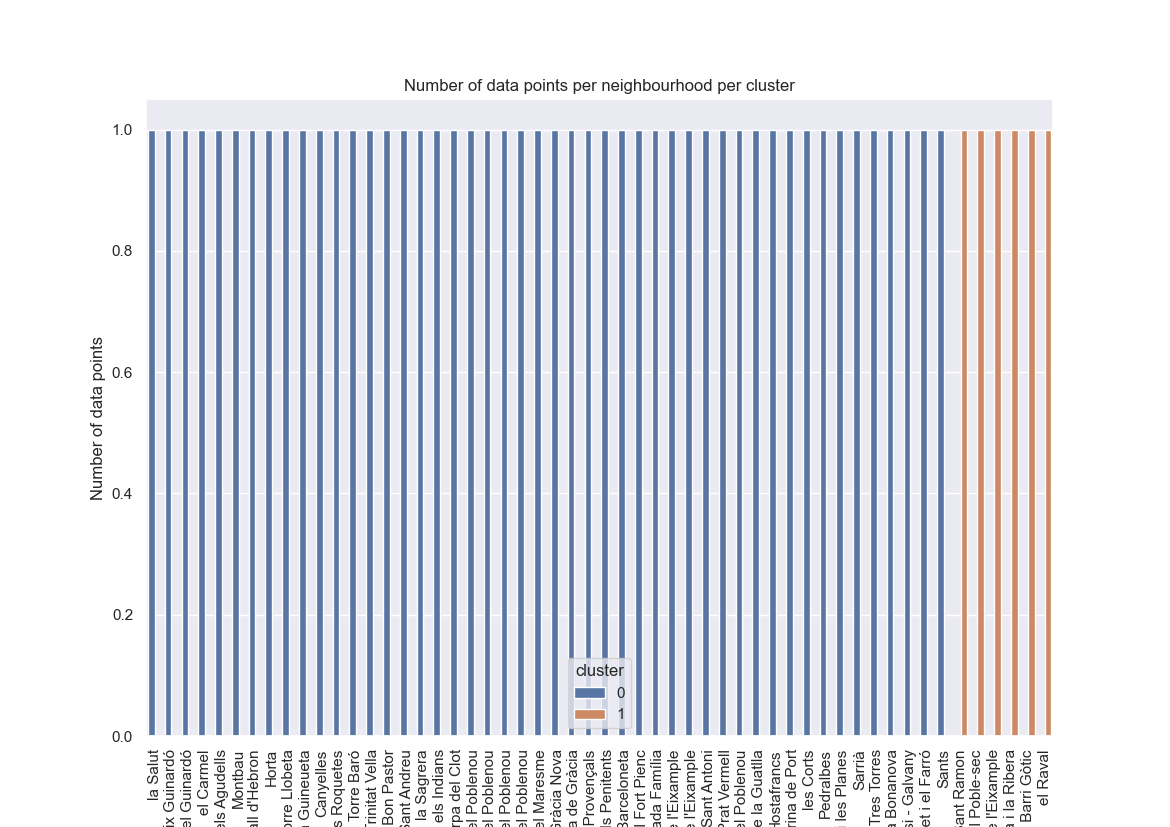
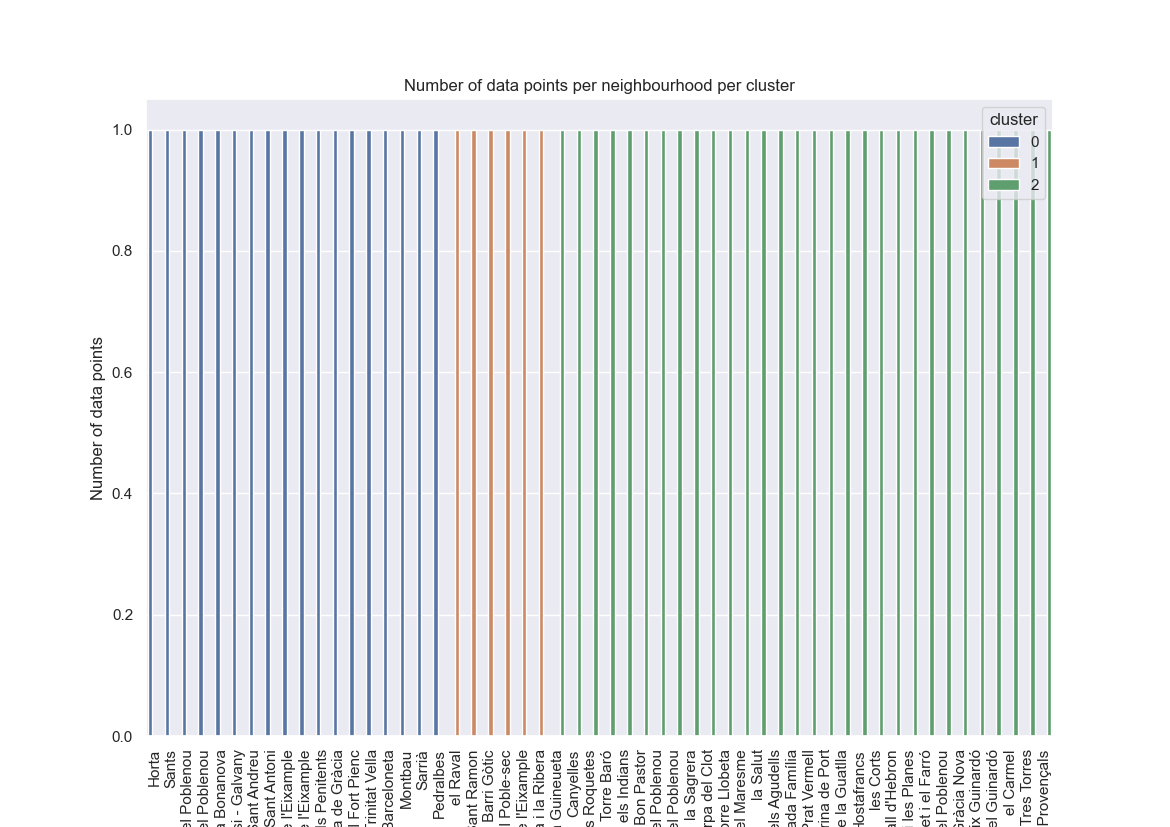
now it'S ready

Changed region(s): [[0.1231, 0.1209, 0.9231, 1.0]]

diff --git a/src/Clustering/library_studyroom_museum_spaces.py b/src/Clustering/library_studyroom_museum_spaces.py
@@ -1,11 +1,14 @@
 from clustering import optimal_clusters_number, cluster_and_plot
 import pandas as pd
 
+
+## Each step should be done separately, so comment the other functions out when running one of them.
+
 # Load your data into a pandas DataFrame
-df = pd.read_csv('../../data/Processed/neighbourhood/library_studyroom_museum_spaces_neighbourhood.csv')
+#df = pd.read_csv('../../data/Processed/neighbourhood/library_studyroom_museum_spaces_neighbourhood.csv')
 
 # Choose the column/columns in your data that you want to use for clustering
-cols = ['library_studyroom_museum_spaces']
+#cols = ['library_studyroom_museum_spaces']
 
 # First: Call the optimal_clusters_number function to determine the optimal number of clusters for your data
 # Decide on the best number of clusters for your data by considering both plots
@@ -17,4 +20,16 @@ cols = ['library_studyroom_museum_spaces']
 #optimal_clusters_number(df, cols, 20)
 
 # Second: Call the cluster_and_plot function to cluster your data and plot the results
-cluster_and_plot(df, cols, 2, 'library_studyroom_museum_spaces')
+#cluster_and_plot(df, cols, 3, 'library_studyroom_museum_spaces')
+
+# Third: Load the resulting csv file into a new pandas DataFrame and add a new column to the DataFrame
+# This column will contain numerical values describing the cluster label for each data point.
+#df = pd.read_csv('../../data/Processed/clustering/clustered_library_studyroom_museum_spaces.csv')
+
+# Here 0 means low, 1 means medium and 2 means high
+#df['label'] = df['cluster'].map({0: 1, 1: 2, 2: 0})
+
+# Or we can still consider adding categorical values to the label column
+#df['label_cat'] = df['cluster'].map({0: 'medium_number_library_studyroom', 1: 'high_number_library_studyroom', 2: 'low_number_library_studyroom'})
+
+#df.to_csv('../../data/Processed/clustering/labled/labled_library_studyroom_museum_spaces.csv', index=False)
